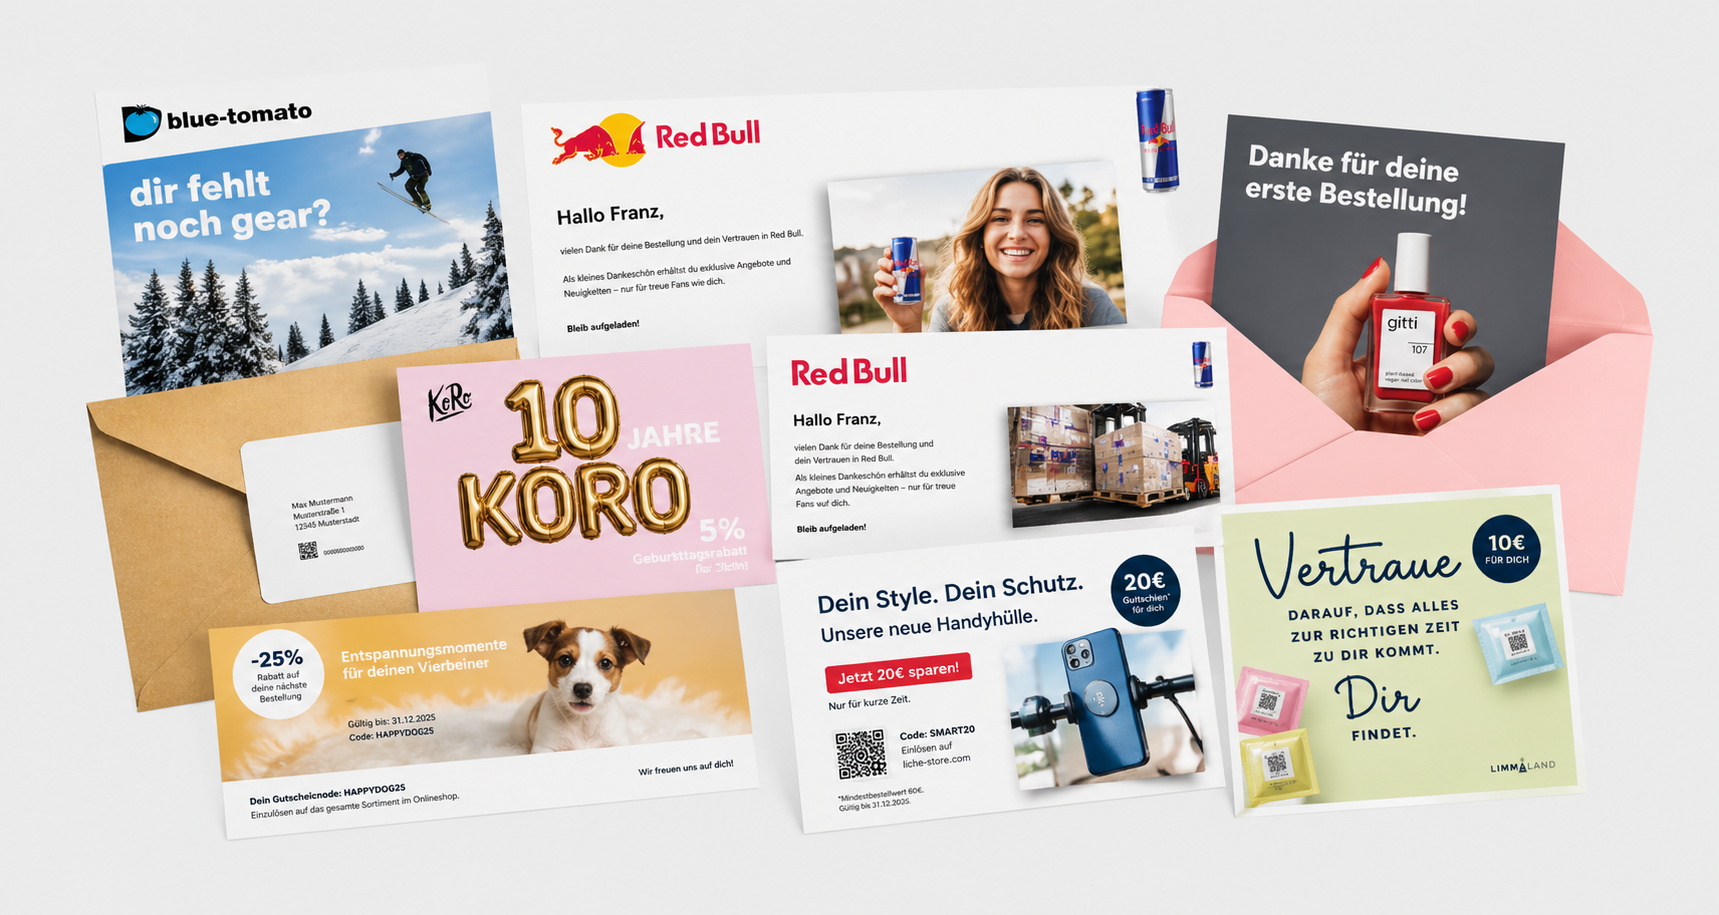
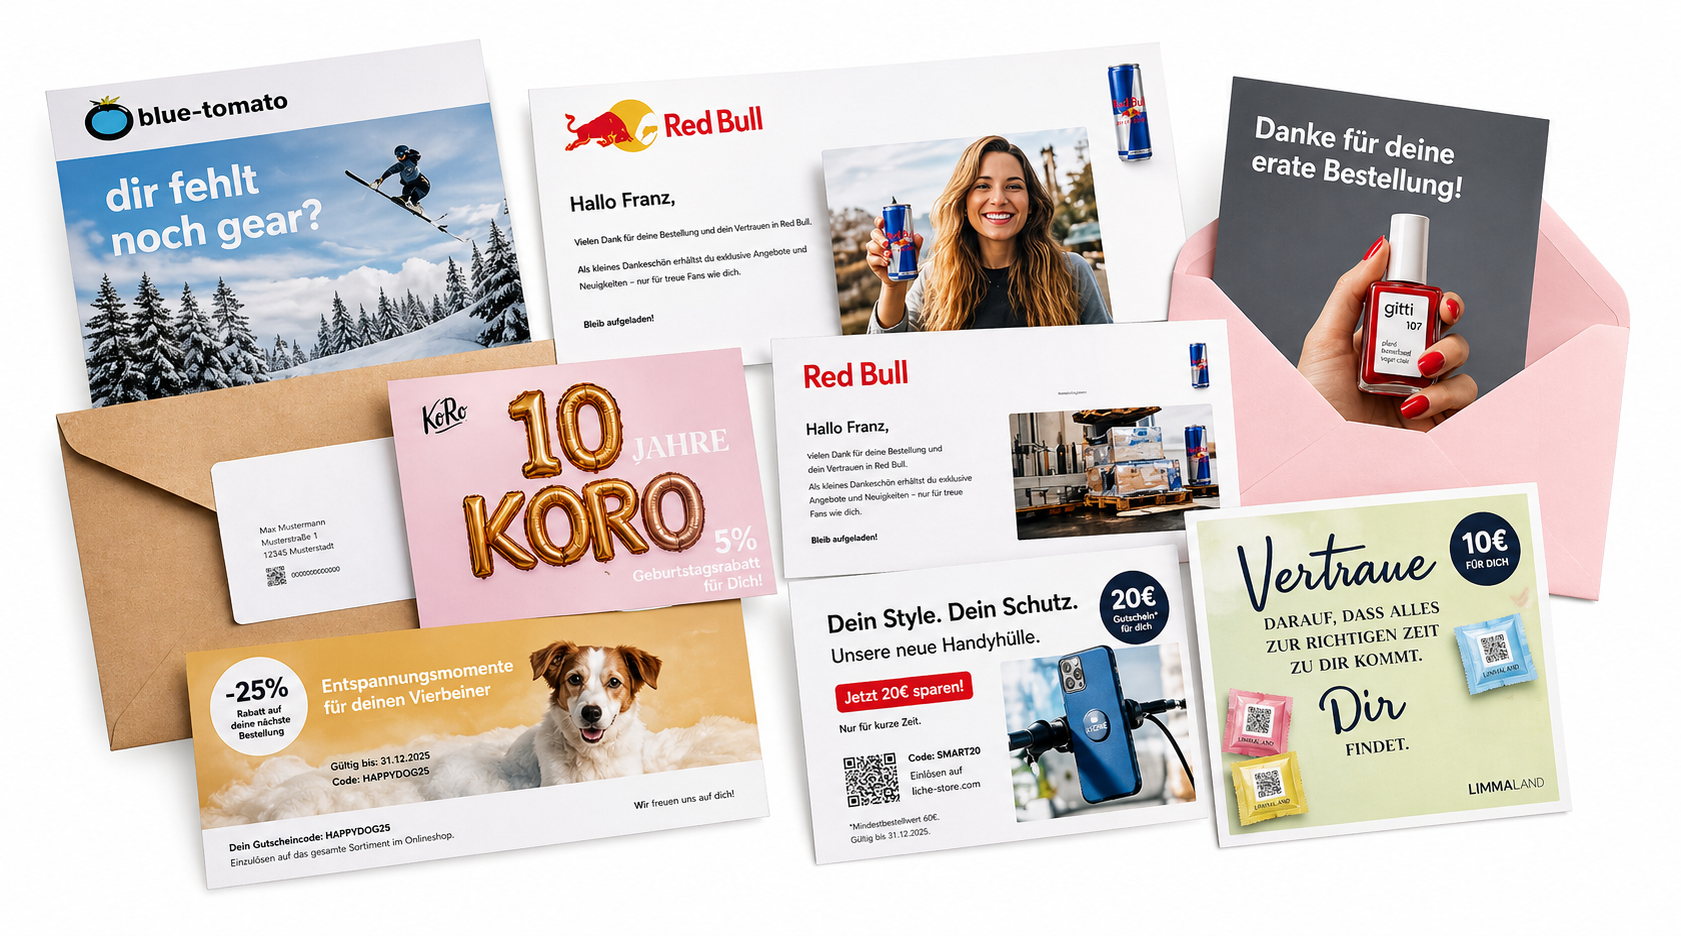
Swap hero collage to transparent-bg version, tighten spacing

diff --git a/mirror/b2b.mypostcard.com/index.html b/mirror/b2b.mypostcard.com/index.html
@@ -15381,7 +15381,7 @@ system_desktop
   /* Postcard collage between hero buttons and trust logos */
   .postcard-collage-section {
     width: 100% !important;
-    padding: 2.5rem 1.5rem 2rem !important;
+    padding: 0.25rem 1.5rem 0 !important;
     background: transparent !important;
   }
   .postcard-collage-inner {
@@ -15398,7 +15398,7 @@ system_desktop
   }
   @media (max-width: 540px) {
     .postcard-collage-section {
-      padding: 1.5rem 1rem 1rem !important;
+      padding: 0.25rem 0.5rem 0 !important;
     }
   }
 
